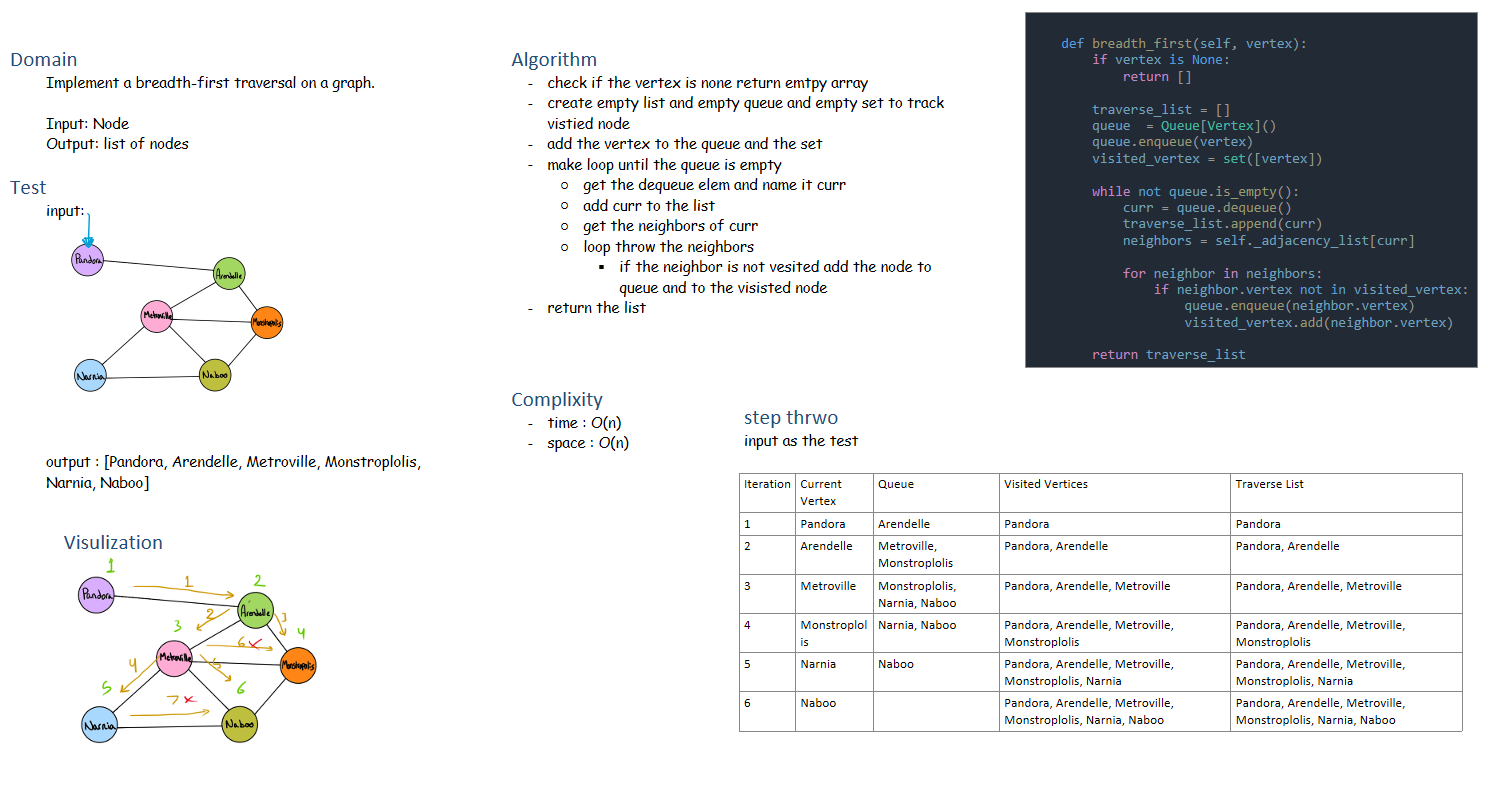
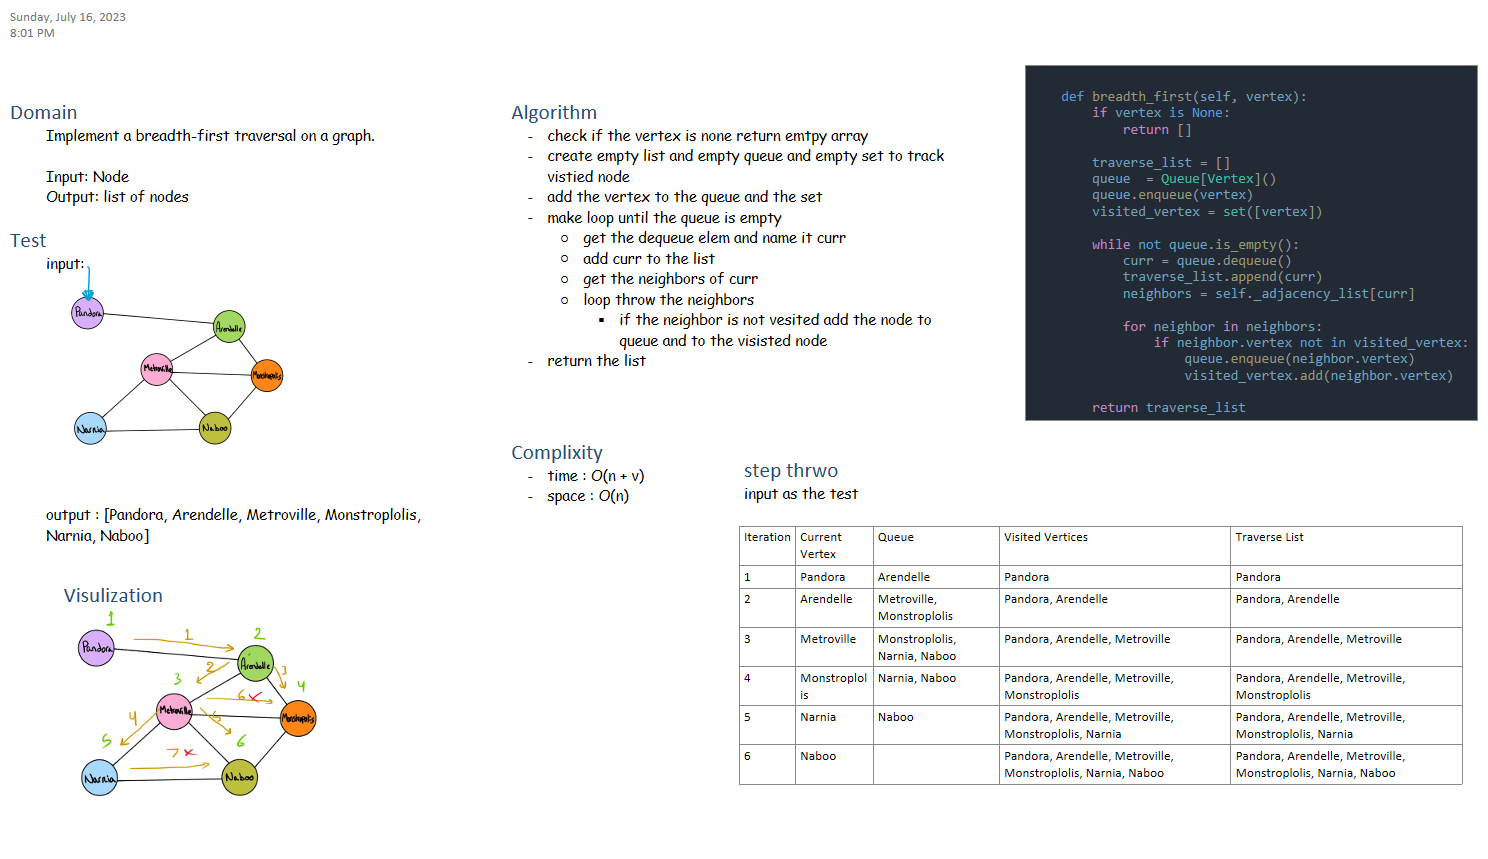
fix the time complexity of breadth first search

diff --git a/graph/breadth_first.md b/graph/breadth_first.md
@@ -10,7 +10,7 @@ Implement a breadth-first traversal on a graph.
 
 ## Approach & Efficiency
 
-- Time: O(n)
+- Time: O(n + v)
 - Space: O(n)
 
 ## Code
